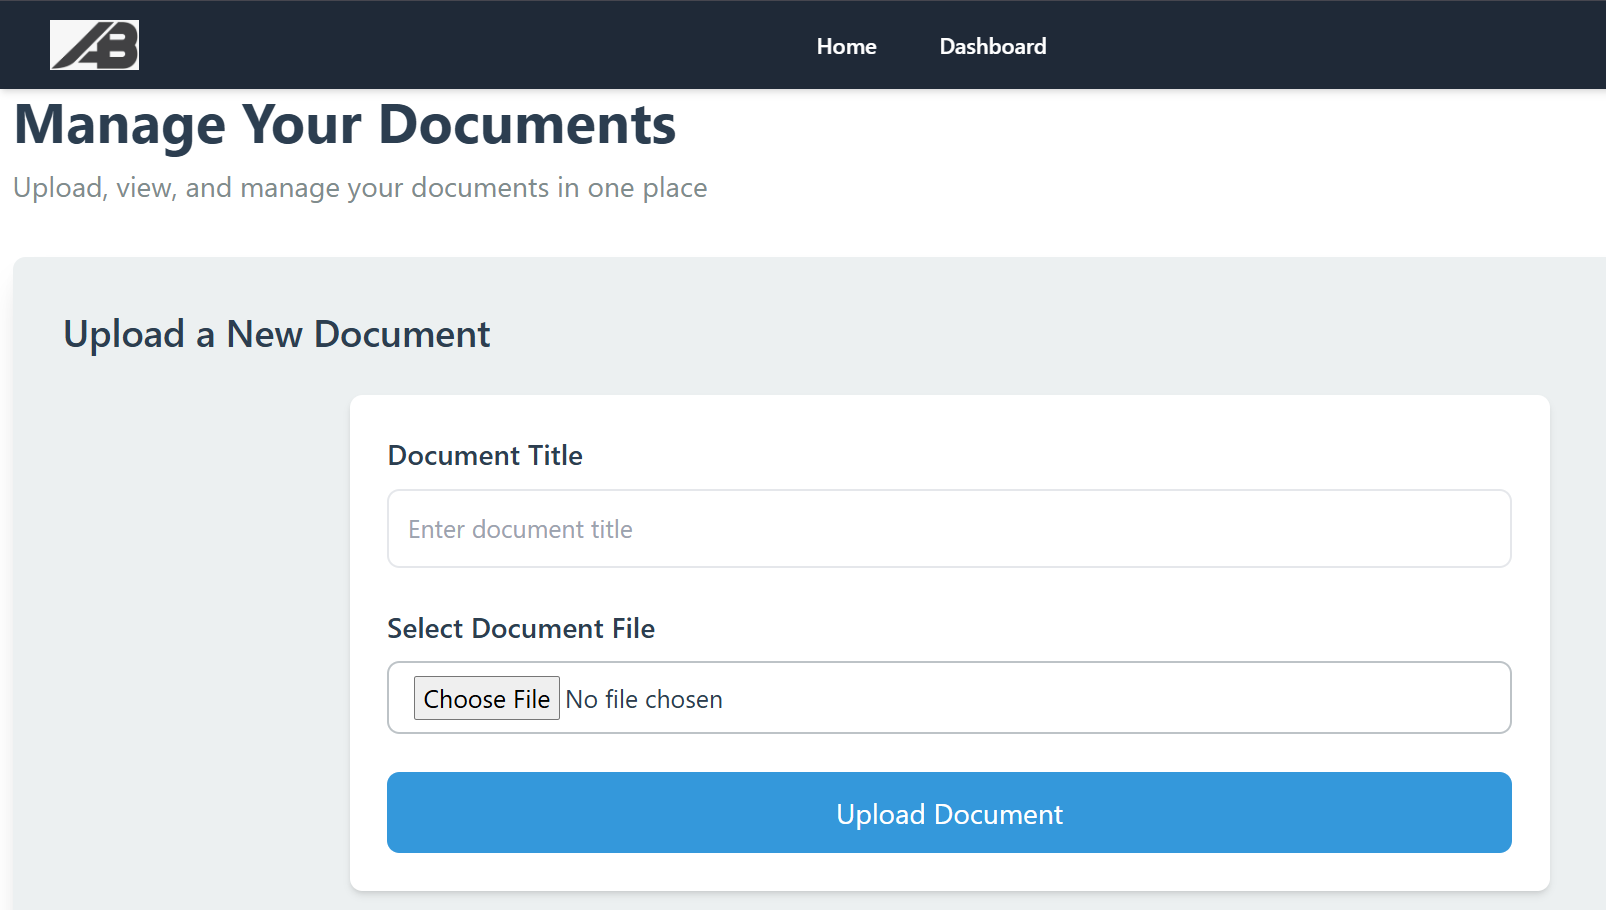
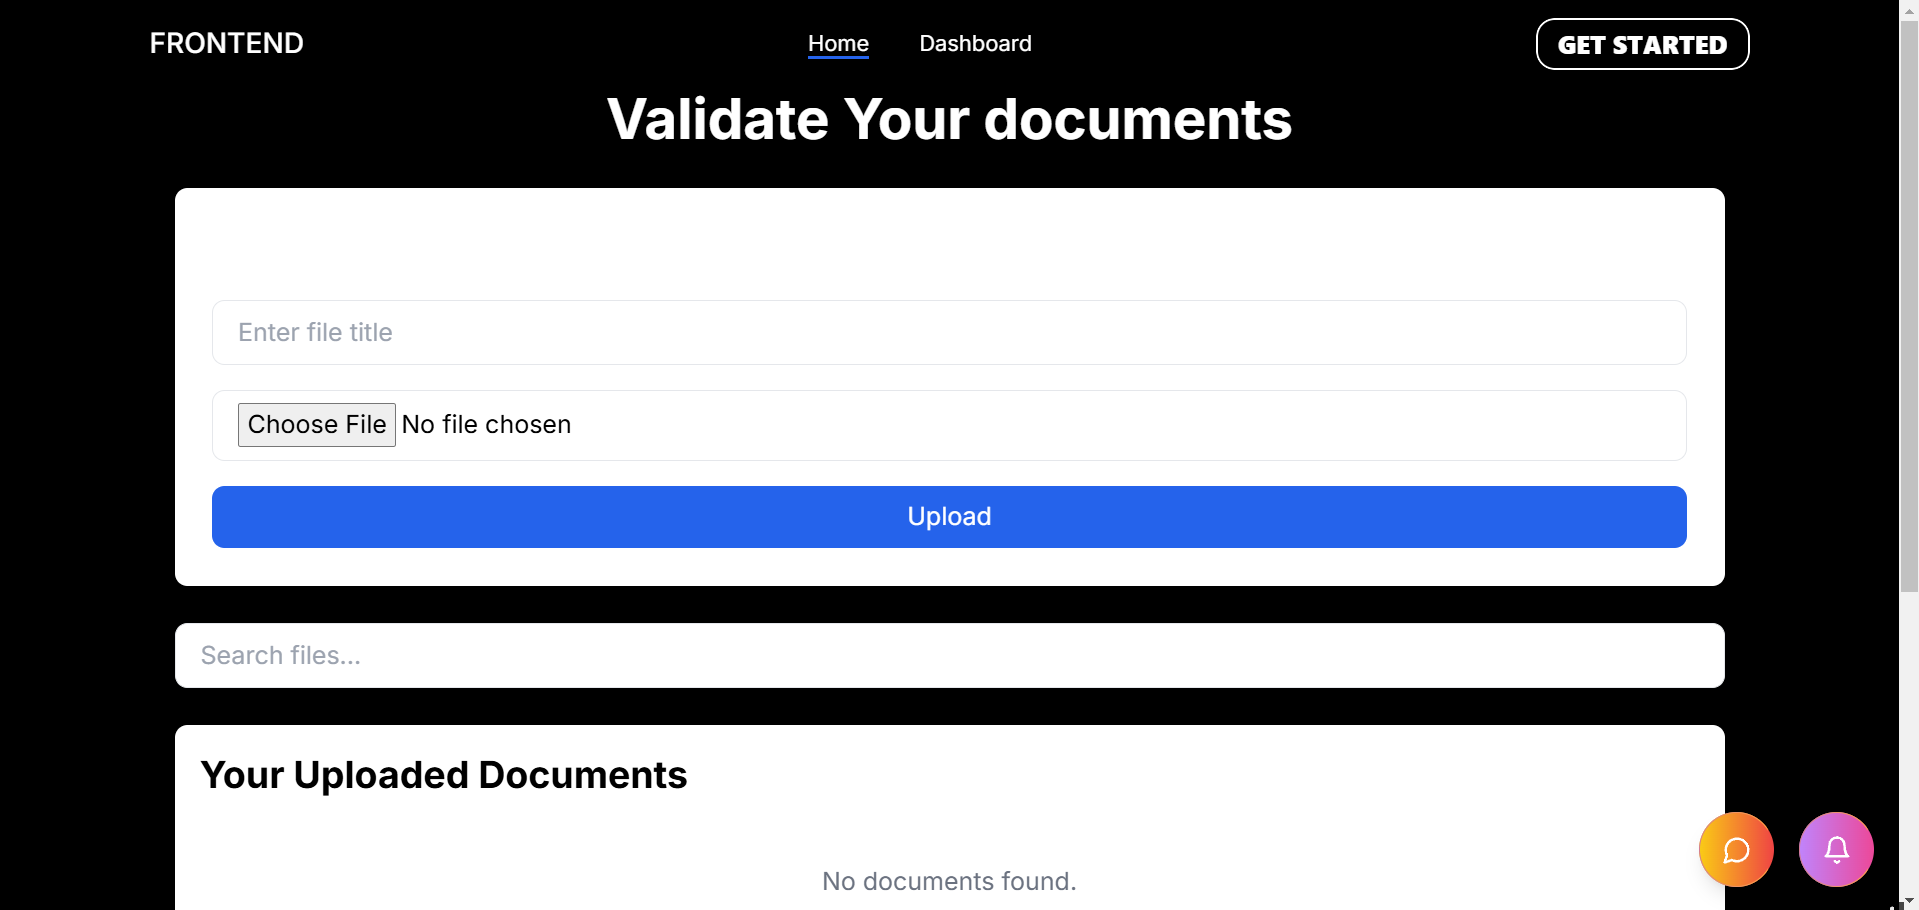
invoice update

diff --git a/src/Pages/Tabs.jsx b/src/Pages/Tabs.jsx
@@ -91,9 +91,9 @@ export default function FullWidthTabs() {
     },
     {
       Img:"./projects/invoice.png",
-      Title:"TAX-INVOICE-VALIDATOR",
-      Link:"https://github.com/nittish03/TAX-INVOICE-VALIDATOR",
-      Live:"https://pdf-tester.netlify.app/"
+      Title:"DOCUMENT-VALIDATOR",
+      Link:"https://github.com/nittish03/FILE-VALIDATOR",
+      Live:"https://document-validator03.vercel.app/"
     },
     {
       Img:"./projects/news.png",
